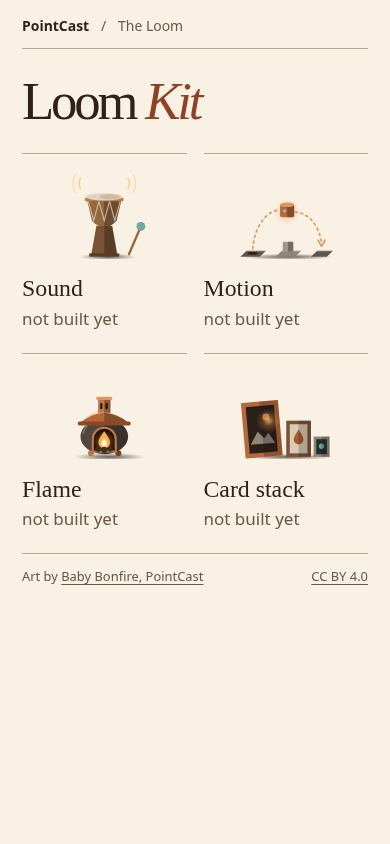
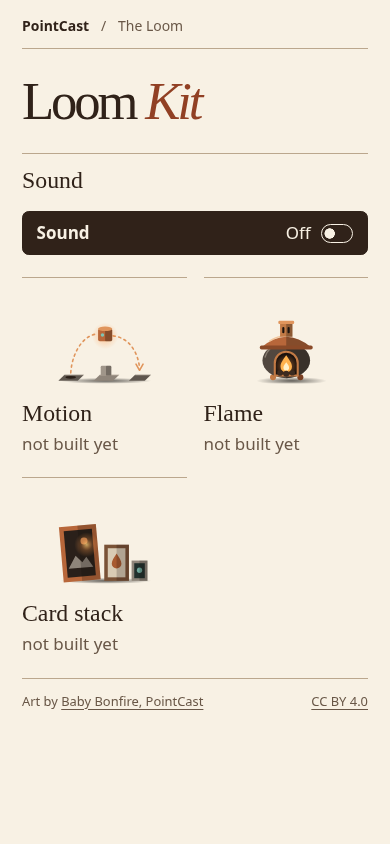
Wire Shwa Sol’s sound palette into the phone sketch

diff --git a/public/sketches/loom-kit/kit.css b/public/sketches/loom-kit/kit.css
@@ -77,6 +77,56 @@ h2 { font-size: clamp(1.4rem, 5.3vw, 2rem); line-height: 1.2; }
 [data-kit-slot]:has([data-kit-content]:not([hidden])) { grid-column: 1 / -1; }
 [data-kit-slot]:has([data-kit-content]:not([hidden])) > .slot-art { display: none; }
 [data-kit-content] :where(button, a, select) { min-width: 44px; min-height: 44px; }
+[data-kit-slot="sound"] :is(button, select) {
+  max-width: 100%;
+  border: 1px solid var(--muted);
+  border-radius: .4rem;
+  padding: .45rem .8rem;
+  background: var(--paper);
+  color: var(--ink);
+  font: inherit;
+}
+[data-kit-slot="sound"] button {
+  cursor: pointer;
+  font-weight: 600;
+}
+[data-kit-slot="sound"] :is(button, select):focus-visible {
+  outline: 3px solid var(--copper);
+  outline-offset: 3px;
+}
+.sound-demo button[role="switch"] {
+  display: flex;
+  width: 100%;
+  align-items: center;
+  gap: .6rem;
+}
+.sound-demo [data-sound-toggle] {
+  background: var(--ink);
+  border-color: var(--ink);
+  color: var(--paper);
+}
+[data-sound-state] { margin-inline-start: auto; font-weight: 400; }
+.sound-demo button[role="switch"]::after {
+  content: "";
+  width: 1.8rem;
+  height: 1rem;
+  border: 1px solid currentColor;
+  border-radius: 1rem;
+  background: radial-gradient(circle at .45rem center, currentColor .29rem, transparent .32rem);
+}
+.sound-demo button[aria-checked="true"]::after {
+  background: radial-gradient(circle at calc(100% - .45rem) center, currentColor .29rem, transparent .32rem);
+}
+[data-sound-options]:not([hidden]) {
+  display: grid;
+  grid-template-columns: minmax(0, 1fr) auto;
+  align-items: end;
+  gap: .65rem;
+  margin-top: .85rem;
+}
+.sound-cue { display: grid; gap: .25rem; }
+[data-sound-bed] { grid-column: 1 / -1; }
+[data-sound-feedback] { color: var(--muted); }
 footer {
   display: flex;
   flex-wrap: wrap;
